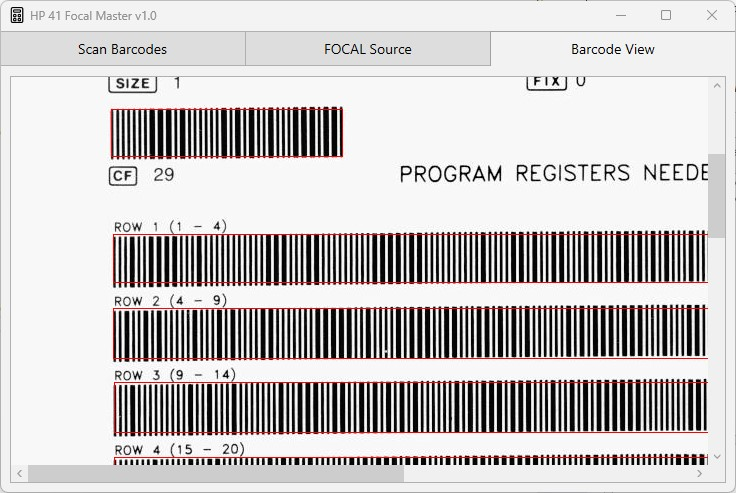
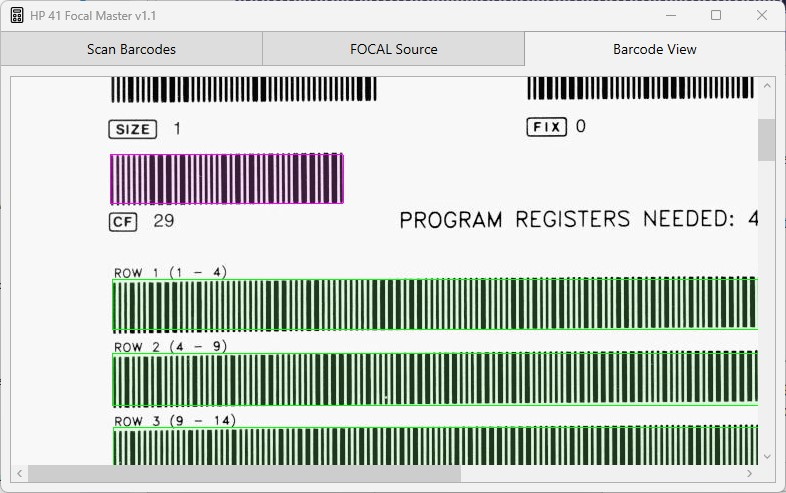
- better markers of the barcodes - in case of a scan error the "Barcode view" page always shows the last image plus marked barcode that causes the problem

diff --git a/Helper/BitmapSourceConverter.cs b/Helper/BitmapSourceConverter.cs
@@ -70,9 +70,12 @@ namespace FocalCompiler
             {
                 for (int i = 0; i < rects.Count; i++)
                 {
-                    byte red;
-                    byte green;
-                    byte blue;
+                    byte redBorder;
+                    byte greenBorder;
+                    byte blueBorder;
+                    byte redFill;
+                    byte greenFill;
+                    byte blueFill;
 
                     if (areaResults != null && i < areaResults.Count)
                     {
@@ -81,78 +84,108 @@ namespace FocalCompiler
                         switch (result)
                         {
                             case ScanResult.Ok:
-                                red = 0;
-                                green = 255;
-                                blue = 0;
+                                redBorder = 0;
+                                greenBorder = 255;
+                                blueBorder = 0;
                                 break;
 
                             case ScanResult.NoProgramCode:
-                                red = 255;
-                                green = 0;
-                                blue = 255;
+                                redBorder = 255;
+                                greenBorder = 0;
+                                blueBorder = 255;
                                 break;
 
                             case ScanResult.CheckSumError:
-                                red = 255;
-                                green = 0;
-                                blue = 0;
+                                redBorder = 255;
+                                greenBorder = 0;
+                                blueBorder = 0;
                                 break;
 
                             default:
-                                red = 0;
-                                green = 255;
-                                blue = 255;
+                                redBorder = 0;
+                                greenBorder = 255;
+                                blueBorder = 255;
                                 break;
 
                         }
                     }
                     else
                     {
-                        red = 0;
-                        green = 0;
-                        blue = 255;
+                        redBorder = 0;
+                        greenBorder = 0;
+                        blueBorder = 255;
                     }
+
+
+                    redFill = redBorder;
+                    greenFill = greenBorder;
+                    blueFill = blueBorder;
+
+                    if (redFill == 0)
+                        redFill = 128;
+
+                    if (greenFill == 0)
+                        greenFill = 128;
+
+                    if (blueFill == 0)
+                        blueFill = 128;
+
 
                     var re = rects[i];
 
-                    int row = re.Top;
+                    double factor = 0.2;
+                    double factor1 = 1 - factor;
 
-                    for (int x = re.Left; x < re.Right; x++)
+                    for (int x = re.Left; x <= re.Right; x++)
                     {
-                        int pixelIndex = row * stride + x * 3;
-                        pixels[pixelIndex] = blue;
-                        pixels[pixelIndex + 1] = green;
-                        pixels[pixelIndex + 2] = red;
+                        for (int y = re.Top; y <= re.Bottom; y++)
+                        {
+                            int pixelIndex = y * stride + x * 3;
+
+                            pixels[pixelIndex] = (byte)(pixels[pixelIndex] * factor1 + blueFill * factor);
+                            pixels[pixelIndex + 1] = (byte)(pixels[pixelIndex + 1] * factor1 + greenFill * factor);
+                            pixels[pixelIndex + 2] = (byte)(pixels[pixelIndex + 2] * factor1 + redFill * factor);
+                        }
                     }
 
-                    row = re.Bottom;
+                    int row = re.Top - 1;
 
-                    for (int x = re.Left; x < re.Right; x++)
+                    for (int x = re.Left - 1; x < re.Right + 1; x++)
                     {
                         int pixelIndex = row * stride + x * 3;
-                        pixels[pixelIndex] = blue;
-                        pixels[pixelIndex + 1] = green;
-                        pixels[pixelIndex + 2] = red;
+                        pixels[pixelIndex] = blueBorder;
+                        pixels[pixelIndex + 1] = greenBorder;
+                        pixels[pixelIndex + 2] = redBorder;
                     }
 
-                    int col = re.Left;
+                    row = re.Bottom + 1;
 
-                    for (int y = re.Top; y < re.Bottom; y++)
+                    for (int x = re.Left - 1; x < re.Right + 1; x++)
+                    {
+                        int pixelIndex = row * stride + x * 3;
+                        pixels[pixelIndex] = blueBorder;
+                        pixels[pixelIndex + 1] = greenBorder;
+                        pixels[pixelIndex + 2] = redBorder;
+                    }
+
+                    int col = re.Left - 1;
+
+                    for (int y = re.Top; y < re.Bottom + 1; y++)
                     {
                         int pixelIndex = y * stride + col * 3;
-                        pixels[pixelIndex] = blue;
-                        pixels[pixelIndex + 1] = green;
-                        pixels[pixelIndex + 2] = red;
+                        pixels[pixelIndex] = blueBorder;
+                        pixels[pixelIndex + 1] = greenBorder;
+                        pixels[pixelIndex + 2] = redBorder;
                     }
 
-                    row = re.Right - 1;
+                    col = re.Right + 1;
 
-                    for (int y = re.Top; y < re.Bottom; y++)
+                    for (int y = re.Top; y < re.Bottom + 1; y++)
                     {
-                        int pixelIndex = y * stride + row * 3;
-                        pixels[pixelIndex] = blue;
-                        pixels[pixelIndex + 1] = green;
-                        pixels[pixelIndex + 2] = red;
+                        int pixelIndex = y * stride + col * 3;
+                        pixels[pixelIndex] = blueBorder;
+                        pixels[pixelIndex + 1] = greenBorder;
+                        pixels[pixelIndex + 2] = redBorder;
                     }
                 }
             }

diff --git a/BarcodeScanner/BarcodeScanner.cs b/BarcodeScanner/BarcodeScanner.cs
@@ -122,12 +122,12 @@ namespace FocalCompiler
 
         /////////////////////////////////////////////////////////////
 
-        public List<BitmapSource> ScanDebug(List<string> files)
+        public List<ErrorImageData> ScanDebug(List<string> files)
         {
             Errors = new List<string>();
             int lastCheckSum = 0;
             int currentRow = 0;
-            var results = new List<BitmapSource>();
+            var results = new List<ErrorImageData>();
 
             foreach (var file in files)
             {
@@ -138,6 +138,8 @@ namespace FocalCompiler
                 var barcodeAreas = FindBarcodeAreas(binaryImage);
 
                 var check = DecodeBarcodes(binaryImage, barcodeAreas, ref lastCheckSum, ref currentRow, out _, out List<ScanResult> areaResults);
+                var imageData = new ErrorImageData { Filename = file, GrayImage = grayImage, BarcodeAreas = barcodeAreas, AreaResults = areaResults };
+                results.Add(imageData);
 
                 if (check != ScanResult.Ok)
                 {
@@ -155,9 +157,6 @@ namespace FocalCompiler
                             Errors.Add($"Checksum error in {file}");
                             break;
                     }
-
-                    results.Add(BitmapSourceConverter.GetBitmapSource(grayImage, barcodeAreas, areaResults));
-                    return results;
                 }
             }
 
@@ -243,7 +242,7 @@ namespace FocalCompiler
                 return FindNextBarcodeAreaResult.AreaTooSmall;
             }
 
-            result = new Rectangle(minX, startY, maxX - minX + 1, lastBlackY - startY);
+            result = new Rectangle(minX, startY, maxX - minX, lastBlackY - startY);
             return FindNextBarcodeAreaResult.Ok;
         }
 

diff --git a/MainWindow.xaml.cs b/MainWindow.xaml.cs
@@ -379,7 +379,7 @@ namespace FocalMaster
             ShowScanning.Visibility = Visibility.Collapsed;
         }
 
-        private void TestScan()
+        private async void TestScan()
         {
             var files = ((IEnumerable<string>)BarcodeFiles.ItemsSource).ToList();
 
@@ -391,14 +391,25 @@ namespace FocalMaster
                 return;
             }
 
+            ShowScanning.Visibility = Visibility.Visible;
+
             var scanner = new BarcodeScanner();
-            var results = scanner.ScanDebug(files);
+            var results = await Task.Run(() => scanner.ScanDebug(files));
+
+            var bitmaps = new List<BitmapSource>();
+
+            foreach (var imageData in results)
+            {
+                bitmaps.Add(BitmapSourceConverter.GetBitmapSource(imageData.GrayImage, imageData.BarcodeAreas, imageData.AreaResults));
+            }
 
             MyImages.Visibility = Visibility.Visible;
             MyTabControl.SelectedIndex = 2;
             ShowErrorsScan.Text = string.Join("\n", scanner.Errors);
 
-            MyImages.ItemsSource = results;
+            MyImages.ItemsSource = bitmaps;
+
+            ShowScanning.Visibility = Visibility.Collapsed;
         }
     }
 }

diff --git a/README.md b/README.md
@@ -1,6 +1,6 @@
 # Focal Master
-FOCAL means "Forty One Calculator Language" and is the programming language of the famous HP 41 calculator. The FocalMaster lets you
-- scan barcode files and convert them to a readable FOCAL program
+The FocalMaster lets you
+- scan barcode files and convert them to a readable HP-41 FOCAL program
 - create barcodes as PDF or JPF files or for display on the screen
 - edit the FOCAL program
 - import a raw file and convert it to a readable FOCAL program
@@ -11,7 +11,7 @@ The FocalMaster is divided into 3 pages, the workflow goes from the left page to
 ### Scan Barcodes
 ![scan barcodes](Images/ScanBarcodes.jpg)
 
-Here you specify all image files that belong a one program and start the scan process. The order of the files is very important. The fist page of the barcode listing must be the first file in the list and so on. Otherwise the scanner stops with a checksum error.
+Here you specify all image files that belong a one program and start the scan process. The order of the files is very important. The fist page of the barcode listing must be the first file in the list and so on. Otherwise the scanner stops with a checksum error. In case of an error the appropriate image is shown in the "Barcode View" page and the barcodes are marked with a color code. Please refer to the "Barcode View" page for more information.
 
 #### Add
 Add files to the list. Drag & Drop is also supported. Please note, that Drag & Drop does not keep the order of your selection.
@@ -67,16 +67,28 @@ RTN
 
 
 ### Barcode View
-![barcode view](Images/BarcodeView.jpg)
 
 The "Barcode View" displays the full FOCAL program as barcodes. It still needs to be tested whether the Wand can directly read barcodes from the screen.
 
+![barcode view](Images/BarcodeView.jpg)
+
+In case of errors this page shows the problematic image and the barcodes are marked with a color code:
+
+- **green**: successfully scanned barcode
+- **red**: checksum error
+- **magenta**: no program barcode, is ignored
+- **cyan**: potential barcode detected but ignored after final evaluation
+- **blue**: potential barcode detected but not yet evaluated (the first checksum error aborts the evaluation of all following potential barcodes)
+
+![barcode view](Images/Error.jpg)
+
 ### Debug Feature
-In case the FocalMaster cannot successfully read a barcode image file, the hidden debug feature might help you to identify and fix the problem:
-- the debug features works only on the first file of the list, move the problematic file to the top of the list
+In case you are interested in the detailed evaluation of all barcodes on all pages, use the debug feature:
 - click "Scan" while holding the CTRL key on the keyboard
 
-FocalMaster will jump the the "Barcode View" page and display the image in gray scale. Additionally all identified barcodes are marked with a red rectangle. As shown below the command "CF 29" is recognized as a barcode. Usually the FocalMaster is able to ignore none-program barcodes. But there might be cases where such barcodes are tried to read as program barcodes - which does not succeed. It can help to create a new image out of existing one but remove the identified none-program barcodes and try again.
+FocalMaster analyzes all images, the process does not stop at the first occurence of an error. When finished FocalMaster jumps to the "Barcode View" page and displays all images (in gray scale) and all barcodes are marked with a color code.
+
+As shown below the command "CF 29" is recognized as a barcode but ignored because its not a program barcode. Usually the FocalMaster is able to ignore none-program barcodes. But there might be cases where such barcodes are wrongly tried to read as program barcodes - which won't succeed. It can help to create a new image out of existing one but remove the identified none-program barcodes and try again.
 
 ![barcode view](Images/Debug.jpg)
 
